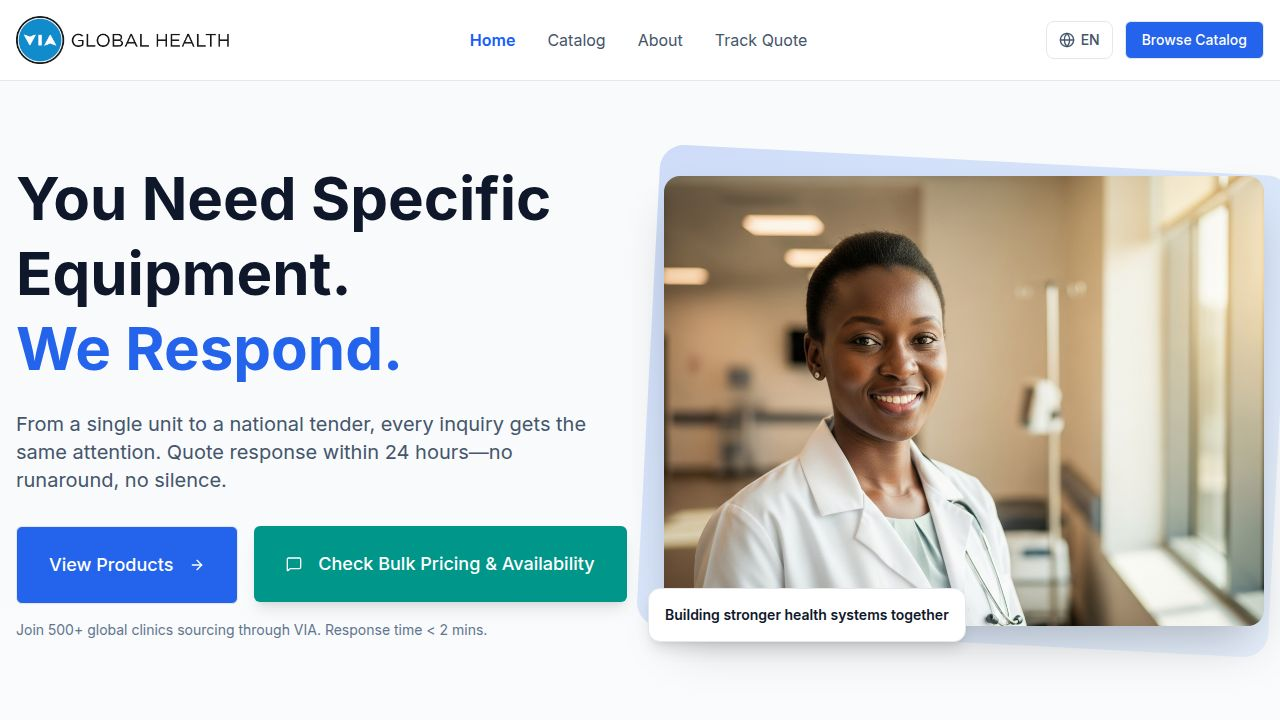
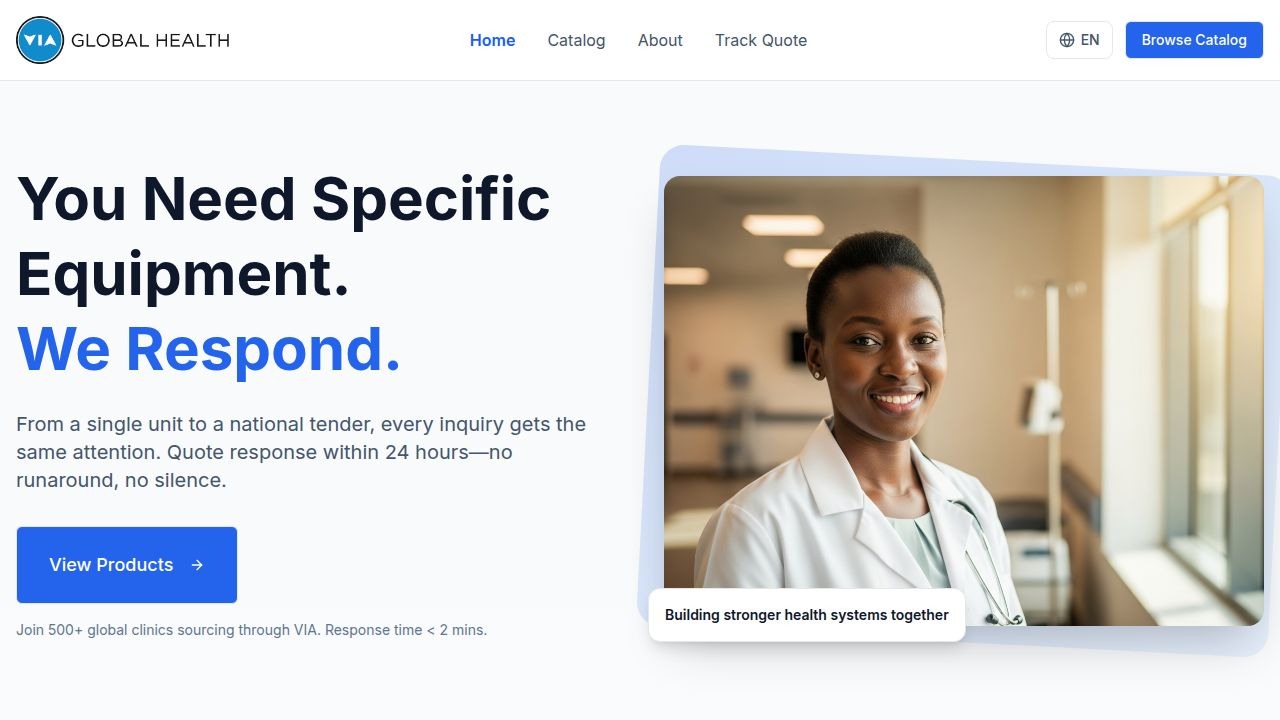
Remove bulk pricing and availability buttons from homepage and catalog
Removes the "Check Bulk Pricing & Availability" buttons from the HomePage and PublicCatalog components. This involves removing associated state, event listeners, and imported components like MessageSquare and AmaraChatDialog from these specific files.

Replit-Commit-Author: Agent
Replit-Commit-Session-Id: 69b09c47-a234-415a-9898-0bf323f16966
Replit-Commit-Checkpoint-Type: full_checkpoint
Replit-Commit-Event-Id: dd001600-eb8c-4a98-b211-7ed5462cc2fa
Replit-Commit-Screenshot-Url: https://storage.googleapis.com/screenshot-production-us-central1/79a1c192-fe84-406b-aa0f-dc73923734d5/69b09c47-a234-415a-9898-0bf323f16966/uB94bKD
Replit-Helium-Checkpoint-Created: true

Changed region(s): [[0.1875, 0.7333, 0.5, 0.8556]]

diff --git a/client/src/pages/HomePage.tsx b/client/src/pages/HomePage.tsx
@@ -8,10 +8,7 @@ import { useTranslation } from "@/i18n/LanguageProvider";
 import { 
   ArrowRight, Building2, Heart, HandshakeIcon, Globe, Zap, Users, Award, 
   ShieldCheck, Clock, TrendingUp, Quote, CheckCircle2, MapPin, Package,
-  MessageSquare, Stethoscope
 } from "lucide-react";
-import { trackCtaClick } from "@/lib/analytics";
-import { AmaraChatDialog } from "@/components/AmaraChatDialog";
 
 import africanHealthcareHero from "@/assets/images/african-healthcare-hero.png";
 import africanMedicalTeam from "@/assets/images/african-medical-team_1.jpg";
@@ -21,19 +18,6 @@ export default function HomePage() {
   const { t } = useTranslation();
   const [activeTab, setActiveTab] = useState<"distributors" | "providers" | "ngos">("distributors");
   const heroRef = useRef<HTMLDivElement>(null);
-  const [showStickyCta, setShowStickyCta] = useState(false);
-  const [showAmaraChat, setShowAmaraChat] = useState(false);
-
-  useEffect(() => {
-    const handleScroll = () => {
-      if (heroRef.current) {
-        const heroBottom = heroRef.current.getBoundingClientRect().bottom;
-        setShowStickyCta(heroBottom < 0);
-      }
-    };
-    window.addEventListener('scroll', handleScroll, { passive: true });
-    return () => window.removeEventListener('scroll', handleScroll);
-  }, []);
 
   const audienceData = useMemo(() => ({
     distributors: {
@@ -160,10 +144,6 @@ export default function HomePage() {
                   <ArrowRight className="ml-2 h-5 w-5" />
                 </Button>
               </Link>
-              <Button size="lg" className="w-full sm:w-auto text-lg px-8 py-6 bg-teal-600 hover:bg-teal-700 text-white border-0 shadow-lg hover:shadow-xl hover:scale-105 transition-all duration-300" data-testid="button-get-quote" onClick={() => { trackCtaClick("hero_section"); setShowAmaraChat(true); }}>
-                <MessageSquare className="mr-2 h-5 w-5" />
-                Check Bulk Pricing & Availability
-              </Button>
             </div>
             <p className="text-sm text-slate-500 mt-4 text-center lg:text-left">
               Join 500+ global clinics sourcing through VIA. Response time &lt; 2 mins.
@@ -442,21 +422,6 @@ export default function HomePage() {
         </div>
       </section>
 
-      {/* Sticky CTA */}
-      {showStickyCta && (
-        <div className="fixed bottom-6 right-6 z-50 animate-in slide-in-from-bottom-4 duration-300">
-          <button 
-            className="flex items-center gap-2 px-5 py-3 bg-teal-600 hover:bg-teal-700 text-white font-semibold rounded-full shadow-2xl hover:shadow-teal-500/25 hover:scale-105 transition-all duration-300 text-sm"
-            data-testid="button-get-quote-sticky"
-            onClick={() => { trackCtaClick("sticky_footer"); setShowAmaraChat(true); }}
-          >
-            <Stethoscope className="h-4 w-4" />
-            Check Bulk Pricing
-          </button>
-        </div>
-      )}
-
-      <AmaraChatDialog isOpen={showAmaraChat} onClose={() => setShowAmaraChat(false)} />
 
       <Footer />
     </div>

diff --git a/client/src/pages/PublicCatalog.tsx b/client/src/pages/PublicCatalog.tsx
@@ -5,15 +5,14 @@ import { Product } from "@/lib/types";
 import { Input } from "@/components/ui/input";
 import { Header } from "@/components/Header";
 import { Footer } from "@/components/Footer";
-import { Search, MessageSquare } from "lucide-react";
+import { Search } from "lucide-react";
 import { Button } from "@/components/ui/button";
 import { ProductCard } from "@/components/ProductCard";
 import { ProductDetailSheet } from "@/components/ProductDetailSheet";
 import { ProductSEO, BreadcrumbSEO } from "@/components/ProductSEO";
-import { AmaraChatDialog } from "@/components/AmaraChatDialog";
 import { RecommendedProducts } from "@/components/RecommendedProducts";
 import { useTranslation } from "@/i18n/LanguageProvider";
-import { trackCatalogView, trackCtaClick } from "@/lib/analytics";
+import { trackCatalogView } from "@/lib/analytics";
 
 export default function PublicCatalog() {
   const { t } = useTranslation();
@@ -25,7 +24,6 @@ export default function PublicCatalog() {
   const [selectedProduct, setSelectedProduct] = useState<Product | null>(null);
   const [searchQuery, setSearchQuery] = useState(initialSearch);
   const [selectedCategory, setSelectedCategory] = useState<string>("all");
-  const [showQuoteFlow, setShowQuoteFlow] = useState(false);
 
   const { data: products = [], isLoading } = useQuery<Product[]>({
     queryKey: ["products"],
@@ -91,20 +89,9 @@ export default function PublicCatalog() {
                 </li>
               </ol>
             </nav>
-            <div className="flex flex-col sm:flex-row sm:items-center sm:justify-between gap-4">
-              <div>
-                <h1 className="text-3xl font-bold text-primary mb-2">{t("catalog.title")}</h1>
-                <p className="text-muted-foreground">{t("catalog.subtitle")}</p>
-              </div>
-              <Button 
-                size="lg" 
-                onClick={() => { trackCtaClick("catalog_header"); setShowQuoteFlow(true); }}
-                className="bg-teal-600 hover:bg-teal-700 text-white shadow-lg hover:shadow-xl hover:scale-105 transition-all duration-300"
-                data-testid="button-request-quote"
-              >
-                <MessageSquare className="h-5 w-5 mr-2" />
-                Check Bulk Pricing & Availability
-              </Button>
+            <div>
+              <h1 className="text-3xl font-bold text-primary mb-2">{t("catalog.title")}</h1>
+              <p className="text-muted-foreground">{t("catalog.subtitle")}</p>
             </div>
           </div>
         </header>
@@ -173,11 +160,7 @@ export default function PublicCatalog() {
           onClose={() => setSelectedProduct(null)}
         />
 
-        {/* Amara Chat Dialog */}
-        <AmaraChatDialog
-          isOpen={showQuoteFlow}
-          onClose={() => setShowQuoteFlow(false)}
-        />
+
       </main>
 
       <Footer />